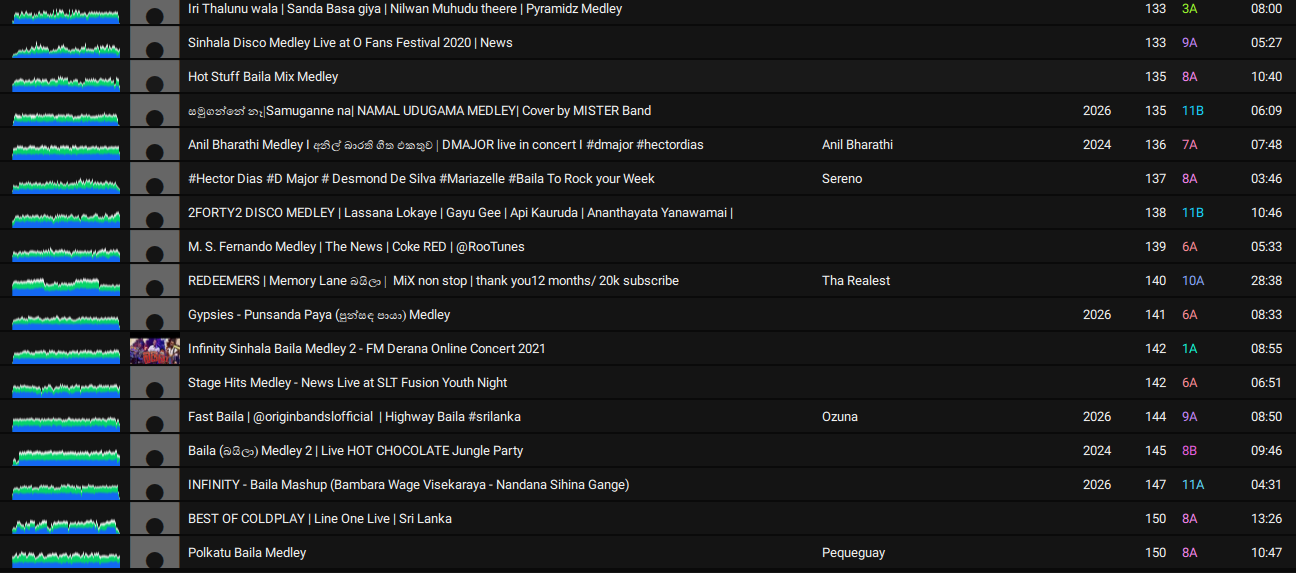
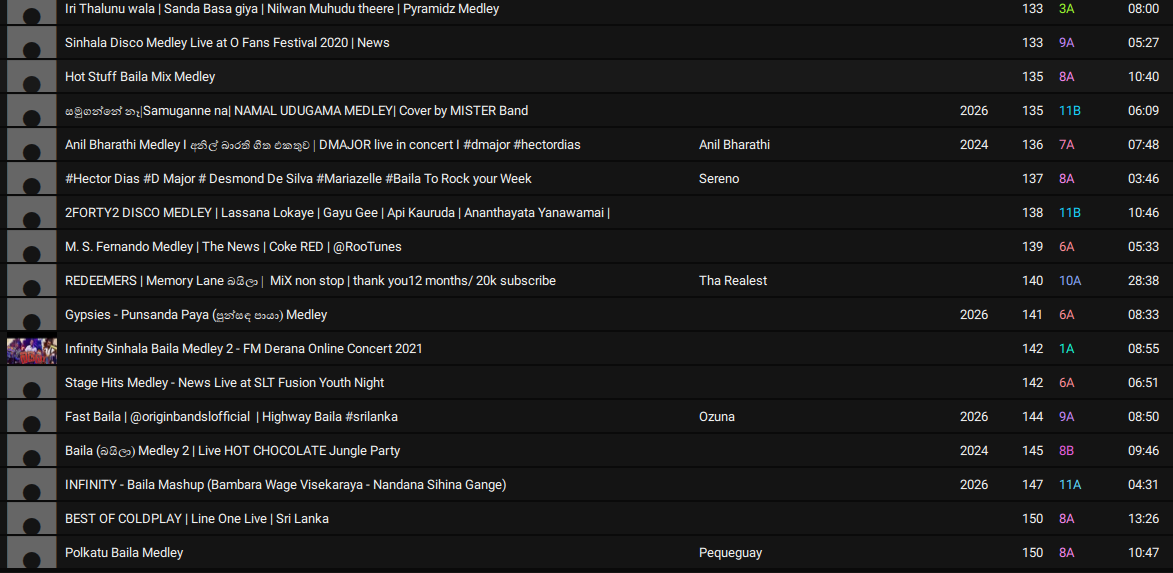
fasfasf
sfasf

diff --git a/Ishara.html b/Ishara.html
@@ -13,58 +13,94 @@
         }
 
         html, body {
+            min-height: 100%;
             width: 100%;
-            overflow-x: hidden;
-            background-color: #000;
+            background: #000;
             color: #fff;
-            font-family: Arial, sans-serif;
+            font-family: Arial, Helvetica, sans-serif;
         }
 
-        .section-title {
+        body {
+            padding: 2rem 1rem;
+        }
+
+        main {
+            max-width: 960px;
+            margin: 0 auto;
+        }
+
+        .page-title {
             text-align: center;
-            font-size: 1.2rem;
-            padding: 15px 10px;
+            margin-bottom: 2rem;
+            font-size: clamp(2rem, 4vw, 3rem);
+        }
+
+        .section {
+            margin-bottom: 2.5rem;
+        }
+
+        .section h2 {
+            text-align: center;
+            font-size: 1.75rem;
+            margin-bottom: 1rem;
         }
 
         .song-list {
-            width: 100%;
+            display: grid;
+            gap: 1rem;
         }
 
         .song-list img {
-            display: block;
             width: 100%;
             height: auto;
+            display: block;
             border: 0;
+            border-radius: 0.5rem;
         }
     </style>
 </head>
 <body>
-		<br></br>
-    <p class="section-title"><h1>Slow Songs for Dinner and Start</h1></p>
+    <main>
+        <h1 class="page-title">Song Lists</h1>
 
-    <div class="song-list">
-        <img src="slow1.png" alt="Slow Songs Page 1" loading="eager">
-        <img src="slow2.png" alt="Slow Songs Page 2" loading="lazy">
-        <img src="slow3.png" alt="Slow Songs Page 3" loading="lazy">
-    </div>
-		<br></br>
-	    <p class="section-title"><h1>Fast Songs for the Party</h1></p>
+        <section class="section" aria-labelledby="slow-songs-title">
+            <h2 id="slow-songs-title">Slow Songs for Dinner and Start</h2>
+            <div class="song-list">
+                <img src="slow1.png" alt="Slow songs list page 1" loading="eager">
+                <img src="slow2.png" alt="Slow songs list page 2" loading="lazy">
+                <img src="slow3.png" alt="Slow songs list page 3" loading="lazy">
+            </div>
+        </section>
 
-    <div class="song-list">
-        <img src="fast1.png" alt="fast1" loading="eager">
-        <img src="fast2.png" alt="fast2" loading="lazy">
-        <img src="fast3.png" alt="fast3" loading="lazy">
-		        <img src="fast4.png" alt="fast4" loading="lazy">
-				        <img src="fast5.png" alt="fast5" loading="lazy">
-    </div>
+        <section class="section" aria-labelledby="fast-songs-title">
+            <h2 id="fast-songs-title">Fast Songs for the Party</h2>
+            <div class="song-list">
+                <img src="fast1.png" alt="Fast songs list page 1" loading="eager">
+                <img src="fast2.png" alt="Fast songs list page 2" loading="lazy">
+                <img src="fast3.png" alt="Fast songs list page 3" loading="lazy">
+                <img src="fast4.png" alt="Fast songs list page 4" loading="lazy">
+                <img src="fast5.png" alt="Fast songs list page 5" loading="lazy">
+            </div>
+        </section>
 
-		<br></br>
-	    <p class="section-title"><h1>None Stop & Baila for the Dance Floor</h1></p>
+        <section class="section" aria-labelledby="dance-songs-title">
+            <h2 id="dance-songs-title">Non-Stop &amp; Baila for the Dance Floor</h2>
+            <div class="song-list">
+                <img src="nonestop1.png" alt="Non-stop dance songs page 1" loading="eager">
+                <img src="nonestop2.png" alt="Non-stop dance songs page 2" loading="eager">
+            </div>
+        </section>
 
-    <div class="song-list">
-        <img src="nonestop1.png" alt="nonestop 1" loading="eager">
-        <img src="nonestop.png" alt="nonestop " loading="eager">
-		<br></br>
-    </div>
+        <section class="section" aria-labelledby="hindi-songs-title">
+            <h2 id="hindi-songs-title">Hindi</h2>
+            <div class="song-list">
+                <img src="hindi1.png" alt="Hindi songs page 1" loading="eager">
+                <img src="hindi2.png" alt="Hindi songs page 2" loading="eager">
+                <img src="hindi3.png" alt="Hindi songs page 3" loading="lazy">
+                <img src="hindi4.png" alt="Hindi songs page 4" loading="lazy">
+                <img src="hindi5.png" alt="Hindi songs page 5" loading="lazy">
+            </div>
+        </section>
+    </main>
 </body>
 </html>